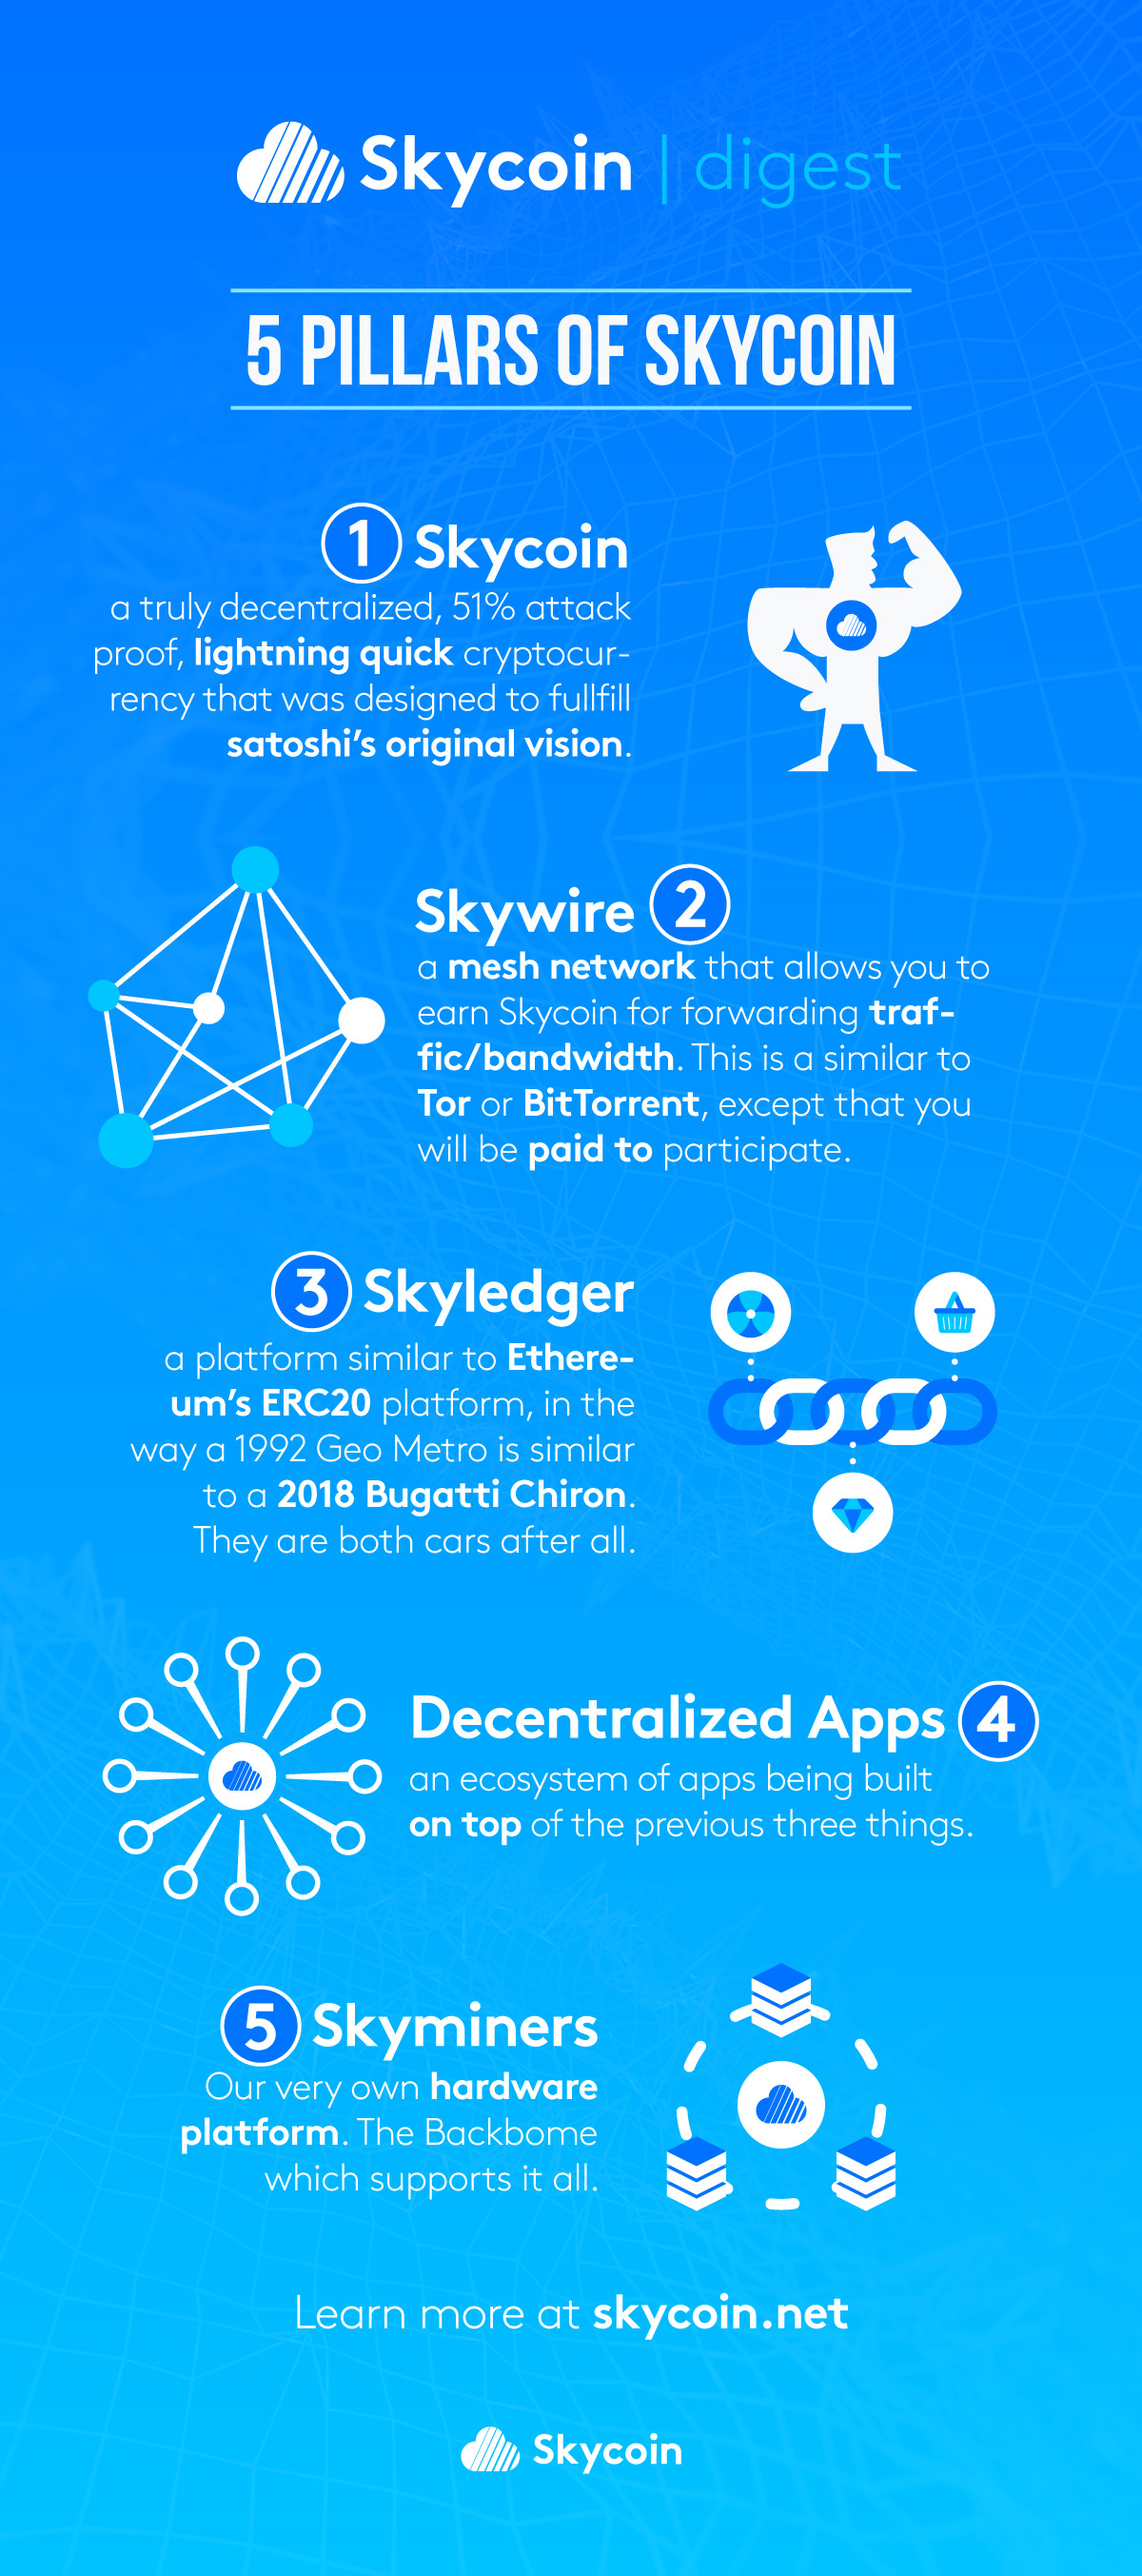
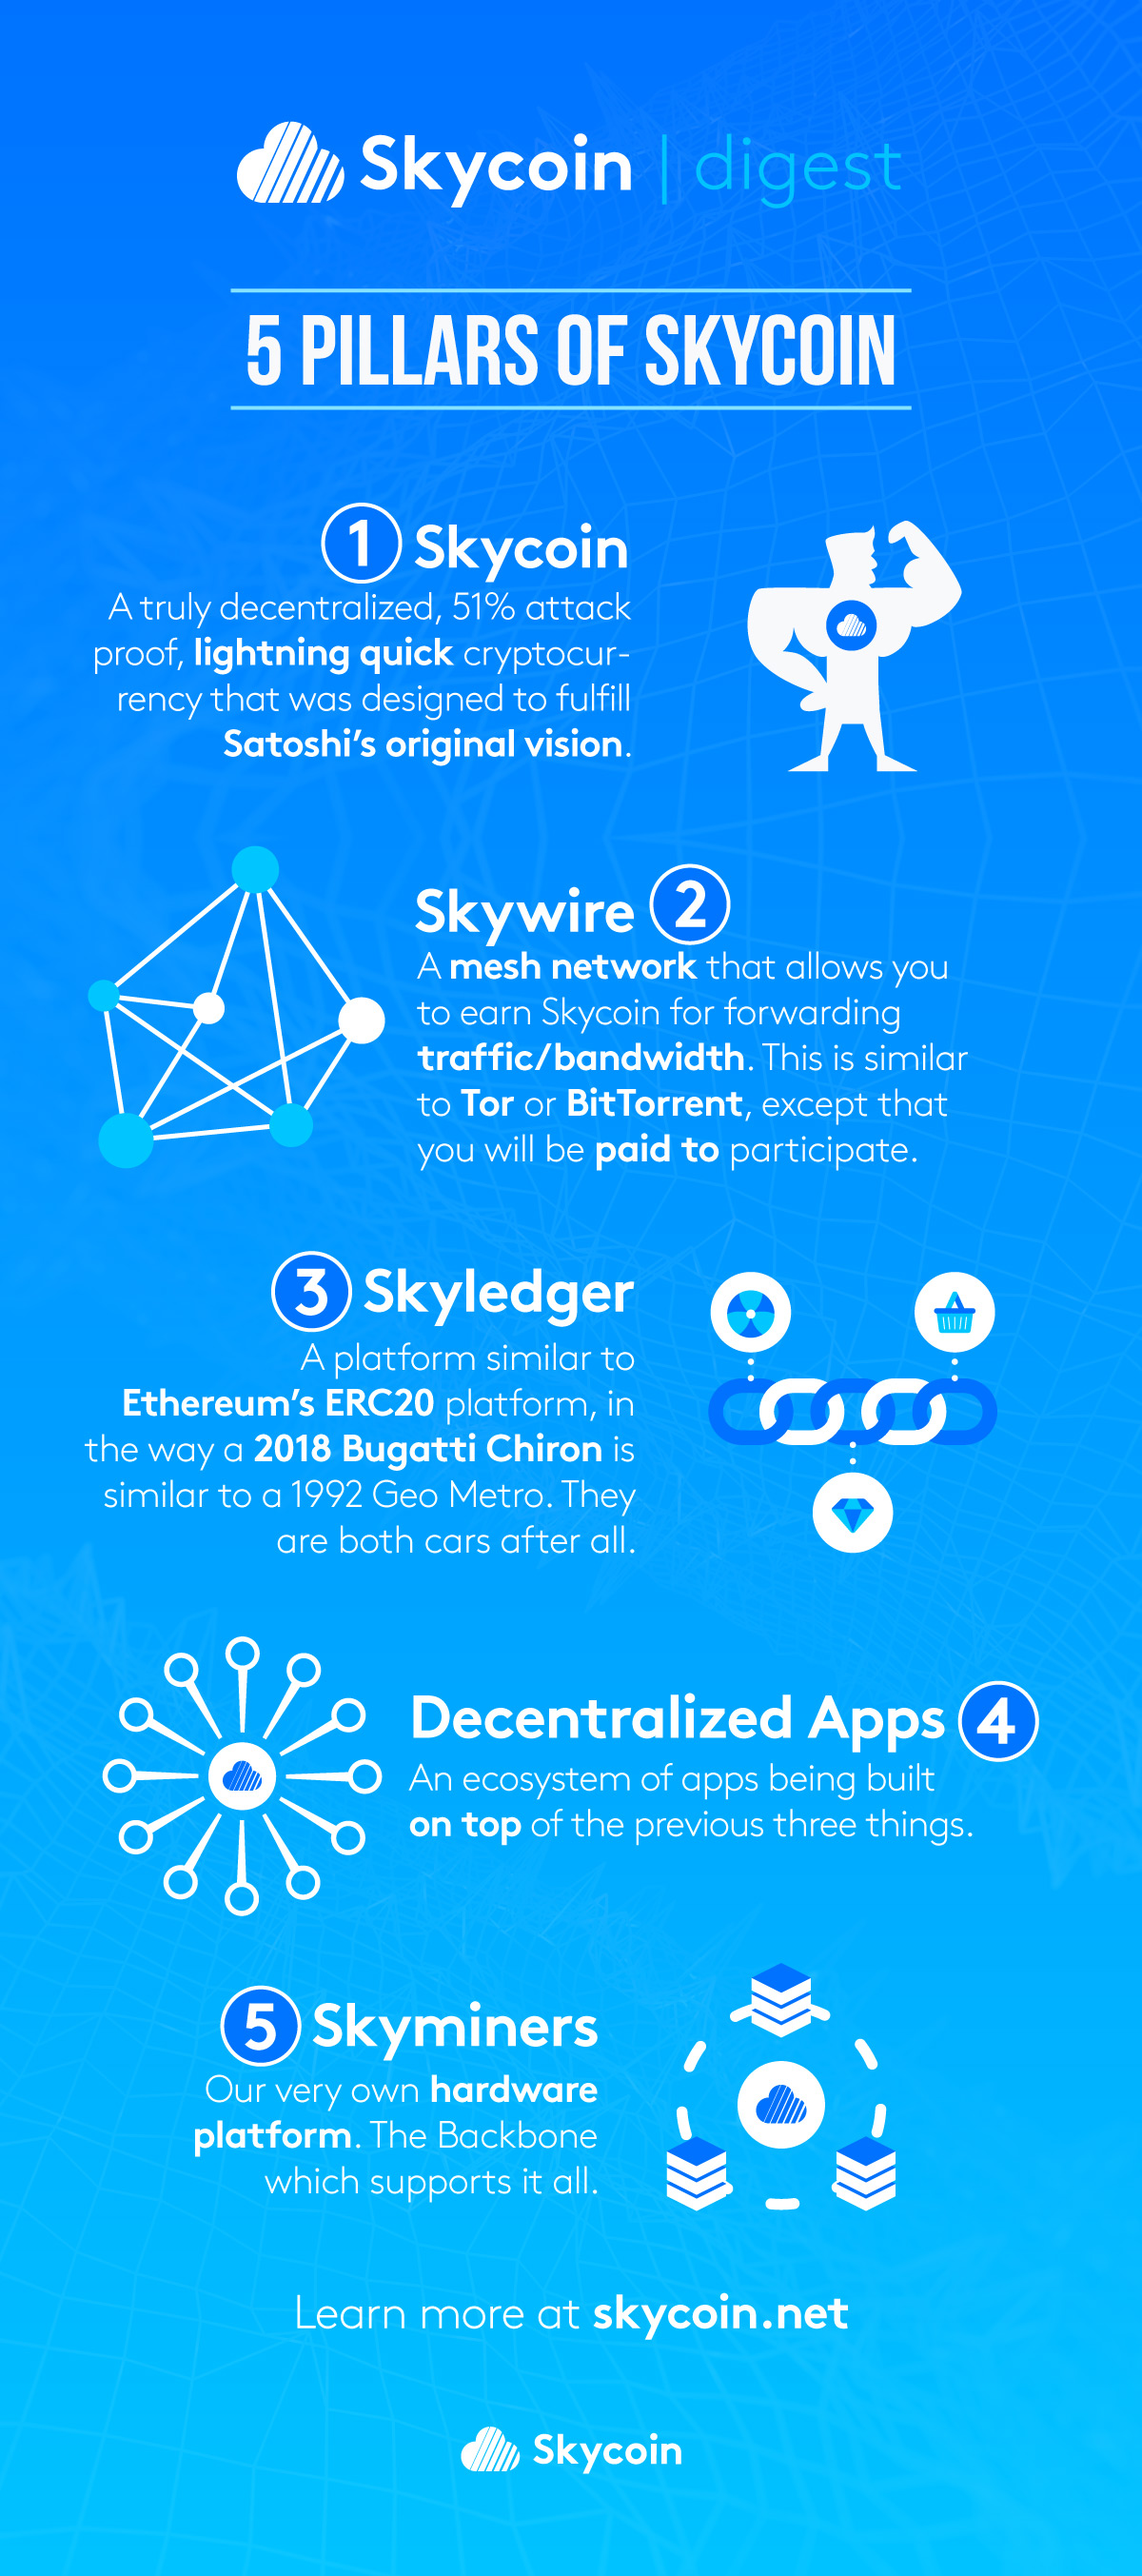
One Last Pull

diff --git a/content/infographics/The-Five-Pillars-of-the-Skycoin-Cryptocurrency.md b/content/infographics/The-Five-Pillars-of-the-Skycoin-Cryptocurrency.md
@@ -16,19 +16,19 @@ The 5 Pillars of Skycoin
 
 ## __1. SKYCOIN__
 
-a truly decentralized, 51% attack proof, lightning quick cryptocurrency that was designed to fullfill satoshi’s original vision.
+A truly decentralized, 51% attack proof, lightning quick cryptocurrency that was designed to fulfill Satoshi’s original vision.
 
 ## __2. SKYWIRE__
 
-a mesh network that allows you to earn Skycoin for forwarding traffic/bandwidth. This is a similar to Tor or BitTorrent, except that you will be paid to participate.
+A mesh network that allows you to earn Skycoin for forwarding traffic/bandwidth. This is a similar to Tor or BitTorrent, except that you will be paid to participate.
 
 ## __3. SKYLEDGER__
 
-a platform similar to Ethereum’s ERC20 platform, in the way a 1992 Geo Metro is similar to a 2018 Bugatti Chiron. They are both cars after all.  
+A platform similar to Ethereum’s ERC20 platform, in the way a 2018 Bugatti Chiron is similar to a 1992 Geo Metro. They are both cars after all.
 
 ## __4. DECENTRALIZED APPS__
 
-an ecosystem of apps being built on top of the previous three things. 
+An ecosystem of apps being built on top of the previous three things.
 
 ## __5. SKYMINERS__
-Our very own hardware platform. The Backbome which supports it all.
+Our very own hardware platform. The Backbone which supports it all.
